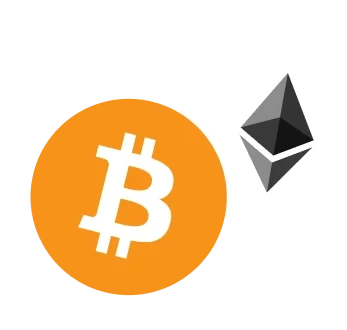
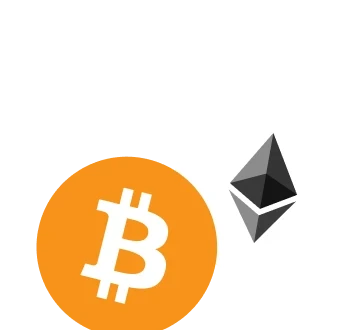
update cards

Changed region(s): [[0.0865, 0.2121, 0.9222, 1.0]]

diff --git a/src/pages/index.tsx b/src/pages/index.tsx
@@ -2,18 +2,11 @@ import useDocusaurusContext from "@docusaurus/useDocusaurusContext";
 import StartBuildingSection from "@site/src/components/LandingPage/StartBuilding";
 import Layout from "@theme/Layout";
 import React from "react";
-import Gallery from "../components/Community/Gallery";
-import { communityGallery } from "../components/Community/gallery-images";
 
-import BackgroundPanel from "../components/LandingPage/BackgroundPanel";
-import Decks from "../components/LandingPage/Decks/Decks";
 import FeaturesSection from "../components/LandingPage/FeaturesSection/FeaturesSection";
 import FoundationSection from "../components/LandingPage/Foundation";
 import GallerySection from "../components/LandingPage/Gallery";
-import {
-  CardsSection,
-  CardWithImage,
-} from "../components/LandingPage/Hero/Cards";
+import { CardsSection } from "../components/LandingPage/Hero/Cards";
 import Hero from "../components/LandingPage/Hero/Hero";
 import IntroCards from "../components/LandingPage/Hero/IntroCards";
 import { NewsSection } from "../components/LandingPage/Hero/News";
@@ -21,9 +14,7 @@ import {
   CollapsedVisionSection,
   VisionSection,
 } from "../components/LandingPage/Hero/VisionSection";
-import Highlights from "../components/LandingPage/Highlights/Highlights";
 import NewsletterSection from "../components/LandingPage/NewsletterSection/NewsletterSection";
-import PreHero from "../components/LandingPage/PreHero";
 import SectionsBar from "../components/LandingPage/SectionsBar";
 import Sustainable from "../components/LandingPage/Sustainable/Sustainable";
 
@@ -47,17 +38,21 @@ export default function Home(): JSX.Element {
         <CardsSection />
         <NewsSection />
         <VisionSection>
-        Step into the era of blockchain as a limitless smart contract cloud that hosts everything on-chain: 
-        data, content, computations, and user experiences. Forget legacy IT and build tamperproof and unstoppable 
-        Web3 social media, gaming, virtual reality, decentralized finance, and enterprise infrastructure. 
-        Join the movement and realize the game-changing Internet Computer paradigm of full stack decentralization 
-        and seamless multi-chain today.
+          Step into the era of blockchain as a limitless smart contract cloud
+          that hosts everything on-chain: data, content, computations, and user
+          experiences. Forget legacy IT and build tamperproof and unstoppable
+          Web3 social media, gaming, virtual reality, decentralized finance, and
+          enterprise infrastructure. Join the movement and realize the
+          game-changing Internet Computer paradigm of full stack
+          decentralization and seamless multi-chain today.
           <CollapsedVisionSection>
-          You will be in good company. The Internet Computer network's ICP protocol was created by the 
-          crypto industry’s largest R&D operation in a multi-year international effort – it’s the product 
-          of more than 1,000 person years of research and development at the DFINITY Foundation, including work 
-          by world famous cryptographers and engineers focused on a singular vision: deliver infinite blockchain 
-          that can be used as an alternative to traditional IT.
+            You will be in good company. The Internet Computer network's ICP
+            protocol was created by the crypto industry’s largest R&D operation
+            in a multi-year international effort – it’s the product of more than
+            1,000 person years of research and development at the DFINITY
+            Foundation, including work by world famous cryptographers and
+            engineers focused on a singular vision: deliver infinite blockchain
+            that can be used as an alternative to traditional IT.
           </CollapsedVisionSection>
         </VisionSection>
         <IntroCards />

diff --git a/src/components/LandingPage/Hero/Cards.tsx b/src/components/LandingPage/Hero/Cards.tsx
@@ -43,6 +43,15 @@ export const CardsSection = () => {
         </h2>
       </CardWithImage> */}
 
+      <CardWithImage href="/multichain" image="/img/home/btc-eth.webp">
+        <div className="tw-heading-7 md:tw-heading-6 mb-2">
+          Native Multi-chain
+        </div>
+        <h2 className="tw-heading-5 md:tw-heading-4 mb-0">
+          Trustless multi-chain on ICP
+        </h2>
+      </CardWithImage>
+
       <CardWithImage
         href="https://deck.internetcomputer.org"
         image="/img/home/deck-astronaut.webp"
@@ -69,26 +78,32 @@ export const CardsSection = () => {
         </div>
         <h2 className="tw-heading-5 md:tw-heading-4 mb-0">Live stats</h2>
       </CardWithImage>
+
+      <CardWithImage href="/docs/current/home" image="/img/home/dev-card.webp">
+        <div className="tw-heading-7 md:tw-heading-6 mb-2">Developer Docs</div>
+        <h2 className="tw-heading-5 md:tw-heading-4 mb-0">Start coding</h2>
+      </CardWithImage>
+
       <CardWithImage href="/community" image="/img/home/events-card.webp">
-        <div className="tw-heading-7 md:tw-heading-6 mb-2">Global Events</div>
+        <div className="tw-heading-7 md:tw-heading-6 mb-2">ICP.Hubs</div>
         <h2 className="tw-heading-5 md:tw-heading-4 mb-0">
-          Meet the community worldwide
+          ICP Community around the world
         </h2>
       </CardWithImage>
 
-      <CardWithImage href="/bitcoin-integration" image="/img/home/btc-icp.webp">
+      {/* <CardWithImage href="/bitcoin-integration" image="/img/home/btc-icp.webp">
         <div className="tw-heading-7 md:tw-heading-6 mb-2">
           Native Multi-chain
         </div>
         <h2 className="tw-heading-5 md:tw-heading-4 mb-0">Bitcoin &lt;&gt; ICP </h2>
-      </CardWithImage>
+      </CardWithImage> */}
 
-      <CardWithImage href="/ethereum-integration" image="/img/home/eth-icp.webp">
+      {/* <CardWithImage href="/ethereum-integration" image="/img/home/eth-icp.webp">
         <div className="tw-heading-7 md:tw-heading-6 mb-2">
           Native Multi-chain
         </div>
         <h2 className="tw-heading-5 md:tw-heading-4 mb-0">Ethereum &lt;&gt; ICP </h2>
-      </CardWithImage>
+      </CardWithImage> */}
     </AnimateSpawn>
   );
 };

diff --git a/src/pages/multichain.tsx b/src/pages/multichain.tsx
@@ -603,7 +603,7 @@ function MultichainPage() {
                       className="link-primary"
                       href="/bitcoin-integration/faq"
                     >
-                      <LinkArrowRight /> FAQ about Bitcoin integration and ckBTC
+                      <LinkArrowRight /> FAQ about BTC integration & ckBTC
                     </Link>
                     <Link
                       className="link-primary"
@@ -615,7 +615,7 @@ function MultichainPage() {
                       className="link-primary"
                       href="https://medium.com/dfinity/hackathon-winners-put-top-icp-features-into-practice-90c9abeef342"
                     >
-                      <LinkArrowRight /> Hackathon Projects for Multi-chain
+                      <LinkArrowRight /> Multi-chain Hackathon Projects
                     </Link>
                   </p>
                 </ContentCard>
@@ -624,8 +624,8 @@ function MultichainPage() {
                     Multi-chain sample code
                   </h3>
                   <p className="flex flex-col gap-6 items-start mb-0">
-                    <Link className="link-primary" href="">
-                      <LinkArrowRight /> More multi-chain Sample codes
+                    <Link className="link-primary" href="/samples">
+                      <LinkArrowRight /> More Sample codes
                     </Link>
                   </p>
                   <div className="grid gap-5 grid-cols-1 md:grid-cols-2">
